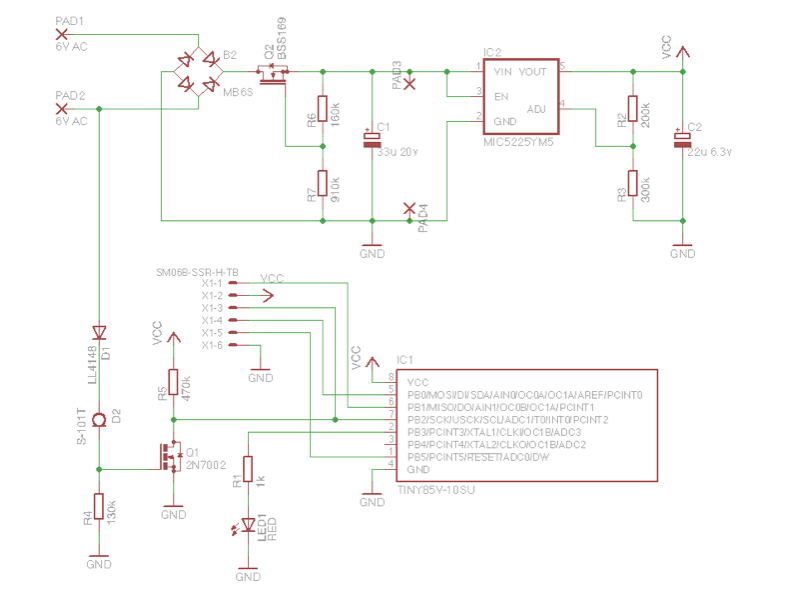
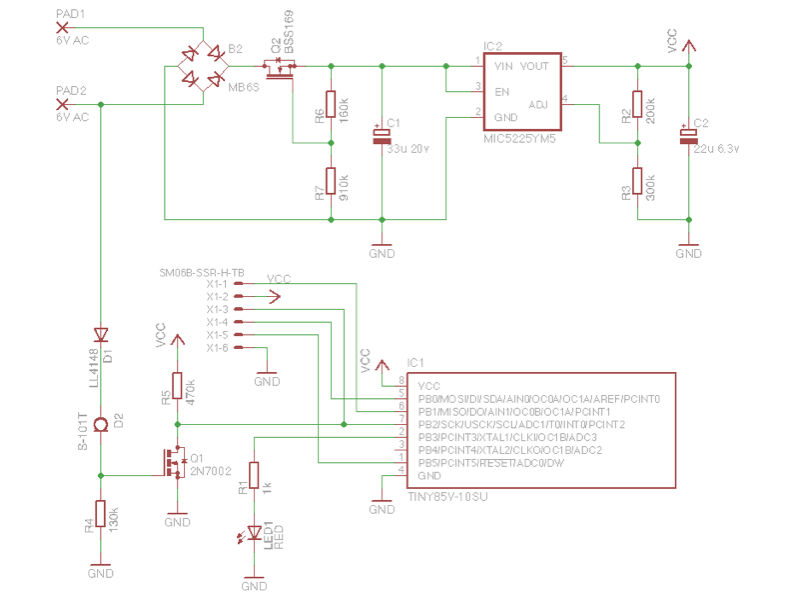
updated docs

diff --git a/docs/Hardware.md b/docs/Hardware.md
@@ -19,8 +19,6 @@ To get some optical feedback of the odometer working port 3 of the tiny is conne
 
 The JST connector has the six pins needed for the **I**n **S**ystem **P**rogramming (ISP). The half duplex UART implemented using the **U**niversal **S**erial **I**nterface (USI) is also accessible via this connector. The UART operates with 9600 baud, 8 data, no parity and 1 stop bit. RX and TX are TTL level inputs/outputs.
 
-There are two additional pads on the input side of the voltage regulator. These are for adding an extra polarized capacitor if needed.
-
 ## Parts List
 
 |Part    |Value              | Package        |
